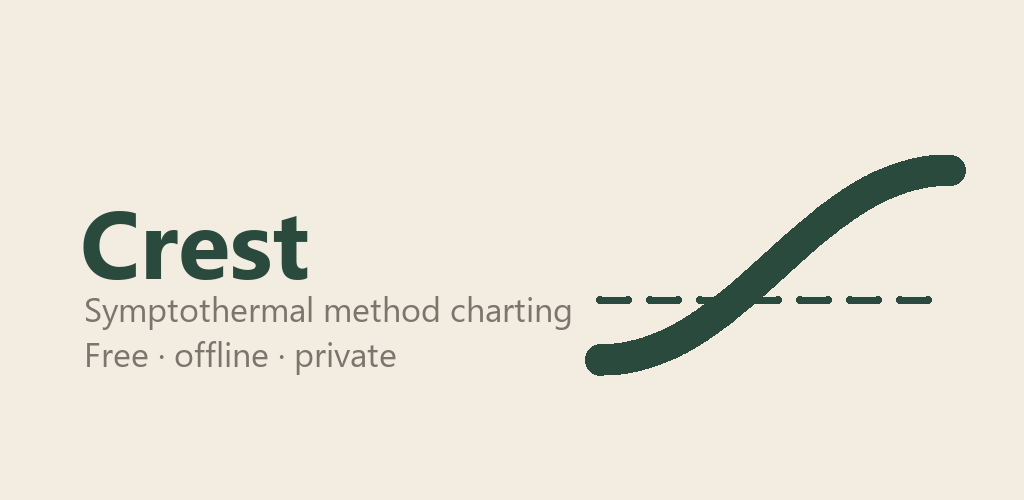
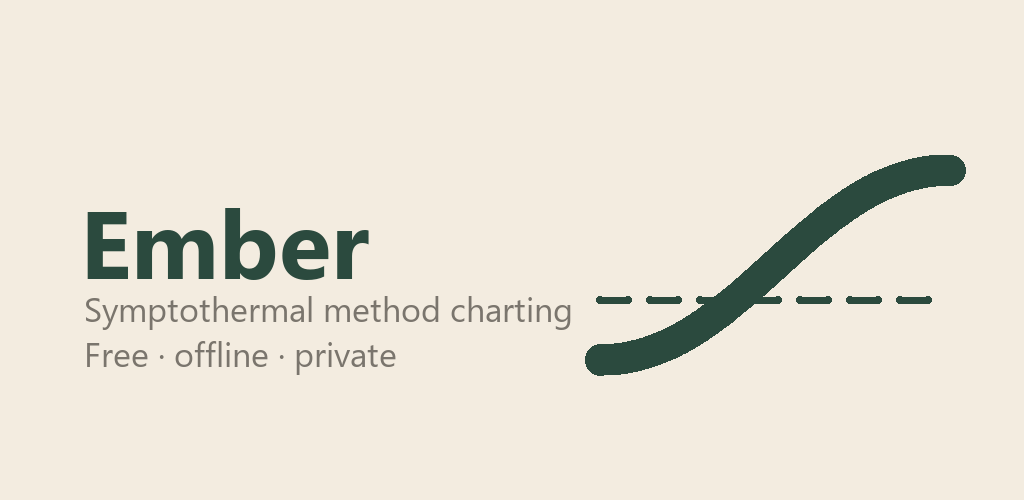
Rename app from Crest to Ember
Full rebrand: display name, Dart package (crest -> ember), Android
applicationId/namespace and Kotlin package (app.crest.tracker ->
app.ember.tracker), iOS bundle id and display name, local database
filename, web manifest, docs, privacy policy, Play listing, and the
generated feature graphic. The abstract curve icon is name-agnostic and
unchanged. GitHub repo URLs are left pointing at /crest (GitHub redirects
if the repo is renamed later).

"Crest" collided with a major consumer brand (toothpaste), undermining
discoverability and recall; "Ember" is collision-free in the cycle/
fertility app niche and ties to warmth -> basal body temperature.

Changed region(s): [[0.0625, 0.42, 0.375, 0.57], [0.0625, 0.54, 0.0938, 0.57]]

diff --git a/lib/main.dart b/lib/main.dart
@@ -11,18 +11,18 @@ void main() async {
   WidgetsFlutterBinding.ensureInitialized();
   await initDatabase();
   await NotificationService.instance.initialize();
-  runApp(const CrestApp());
+  runApp(const EmberApp());
 }
 
-class CrestApp extends StatelessWidget {
-  const CrestApp({super.key});
+class EmberApp extends StatelessWidget {
+  const EmberApp({super.key});
 
   @override
   Widget build(BuildContext context) {
     return ChangeNotifierProvider(
       create: (_) => CycleProvider()..initialize(),
       child: MaterialApp(
-        title: 'Crest',
+        title: 'Ember',
         theme: AppTheme.lightTheme,
         home: const HomeScreen(),
         debugShowCheckedModeBanner: false,

diff --git a/lib/screens/support_screen.dart b/lib/screens/support_screen.dart
@@ -25,7 +25,7 @@ class SupportScreen extends StatelessWidget {
     final colors = theme.colorScheme;
 
     return Scaffold(
-      appBar: AppBar(title: const Text('Support Crest')),
+      appBar: AppBar(title: const Text('Support Ember')),
       body: ListView(
         padding: const EdgeInsets.all(24),
         children: [
@@ -43,7 +43,7 @@ class SupportScreen extends StatelessWidget {
           ),
           const SizedBox(height: 24),
           Text(
-            'Crest is free — and stays that way',
+            'Ember is free — and stays that way',
             textAlign: TextAlign.center,
             style: theme.textTheme.titleMedium
                 ?.copyWith(fontWeight: FontWeight.w600),
@@ -52,7 +52,7 @@ class SupportScreen extends StatelessWidget {
           Text(
             'No subscriptions, no ads, no tracking. Every feature is available '
             'to everyone. It’s built and maintained in my spare time.\n\n'
-            'If Crest is useful to you and you’d like to chip in toward its '
+            'If Ember is useful to you and you’d like to chip in toward its '
             'development, you can leave a small tip. It’s entirely optional '
             'and unlocks nothing — you already have the whole app.',
             style: theme.textTheme.bodyMedium?.copyWith(
@@ -71,7 +71,7 @@ class SupportScreen extends StatelessWidget {
           ),
           const SizedBox(height: 12),
           Text(
-            'Opens in your browser. Crest never sees your payment details.',
+            'Opens in your browser. Ember never sees your payment details.',
             textAlign: TextAlign.center,
             style: theme.textTheme.bodySmall
                 ?.copyWith(color: colors.onSurfaceVariant),

diff --git a/lib/screens/settings_screen.dart b/lib/screens/settings_screen.dart
@@ -41,7 +41,7 @@ class SettingsScreen extends StatelessWidget {
                         color: colors.onPrimaryContainer, size: 24),
                   ),
                   const SizedBox(height: 8),
-                  Text('Crest',
+                  Text('Ember',
                       style: theme.textTheme.titleMedium?.copyWith(
                         fontWeight: FontWeight.w600,
                       )),
@@ -251,7 +251,7 @@ class SettingsScreen extends StatelessWidget {
                     color: colors.primary),
                 title: const Text('Import data (CSV)'),
                 subtitle:
-                    const Text('Import Crest CSV format'),
+                    const Text('Import Ember CSV format'),
                 onTap: () => _importData(context),
               ),
               const Divider(),
@@ -304,7 +304,7 @@ class SettingsScreen extends StatelessWidget {
                       color: colors.primary),
                   title: const Text('Support development'),
                   subtitle: const Text(
-                      'Crest is free. Chip in a coffee if you like — optional.'),
+                      'Ember is free. Chip in a coffee if you like — optional.'),
                   trailing: const Icon(Icons.chevron_right),
                   onTap: () => Navigator.of(context).push(
                     MaterialPageRoute(

diff --git a/test/stm_engine_test.dart b/test/stm_engine_test.dart
@@ -1,8 +1,8 @@
 import 'dart:math';
 import 'package:flutter_test/flutter_test.dart';
-import 'package:crest/models/cycle.dart';
-import 'package:crest/models/day_entry.dart';
-import 'package:crest/services/stm_engine.dart';
+import 'package:ember/models/cycle.dart';
+import 'package:ember/models/day_entry.dart';
+import 'package:ember/services/stm_engine.dart';
 
 // ---------------------------------------------------------------------------
 // Backtest suite for the STM evaluation engine.

diff --git a/lib/database/database_helper.dart b/lib/database/database_helper.dart
@@ -20,10 +20,10 @@ class DatabaseHelper {
   Future<Database> _initDatabase() async {
     String path;
     if (kIsWeb) {
-      path = 'crest.db';
+      path = 'ember.db';
     } else {
       final dbPath = await getDatabasesPath();
-      path = join(dbPath, 'crest.db');
+      path = join(dbPath, 'ember.db');
     }
     return await openDatabase(
       path,

diff --git a/test/cycle_stats_test.dart b/test/cycle_stats_test.dart
@@ -1,6 +1,6 @@
 import 'package:flutter_test/flutter_test.dart';
-import 'package:crest/models/cycle.dart';
-import 'package:crest/services/cycle_stats.dart';
+import 'package:ember/models/cycle.dart';
+import 'package:ember/services/cycle_stats.dart';
 
 // Verifies every statistic shown on the Statistics screen. The math is pure,
 // so these run without a database. Reference values are hand-computed.

diff --git a/test/widget_test.dart b/test/widget_test.dart
@@ -2,7 +2,7 @@ import 'package:flutter/material.dart';
 import 'package:flutter_test/flutter_test.dart';
 import 'package:shared_preferences/shared_preferences.dart';
 import 'package:sqflite_common_ffi/sqflite_ffi.dart';
-import 'package:crest/main.dart';
+import 'package:ember/main.dart';
 
 // End-to-end smoke test: boots the full app with mocked platform plugins
 // (SharedPreferences + an in-memory SQLite database) and verifies the main
@@ -19,7 +19,7 @@ void main() {
   });
 
   testWidgets('App boots and shows the main navigation', (tester) async {
-    await tester.pumpWidget(const CrestApp());
+    await tester.pumpWidget(const EmberApp());
     await tester.pumpAndSettle();
 
     // The default tab is "Today"; the bottom navigation should be present.

diff --git a/web/index.html b/web/index.html
@@ -23,13 +23,13 @@
   <!-- iOS meta tags & icons -->
   <meta name="mobile-web-app-capable" content="yes">
   <meta name="apple-mobile-web-app-status-bar-style" content="black">
-  <meta name="apple-mobile-web-app-title" content="Crest">
+  <meta name="apple-mobile-web-app-title" content="Ember">
   <link rel="apple-touch-icon" href="icons/Icon-192.png">
 
   <!-- Favicon -->
   <link rel="icon" type="image/png" href="favicon.png"/>
 
-  <title>Crest</title>
+  <title>Ember</title>
   <link rel="manifest" href="manifest.json">
 </head>
 <body>

diff --git a/lib/config/support_links.dart b/lib/config/support_links.dart
@@ -10,7 +10,7 @@ class SupportLinks {
 
   /// Ko-fi "buy me a coffee" page.
   ///
-  /// TODO(crest): replace YOUR_HANDLE with the real Ko-fi handle before
+  /// TODO(ember): replace YOUR_HANDLE with the real Ko-fi handle before
   /// publishing. If you have not created a Ko-fi page yet, sign up at
   /// https://ko-fi.com and put your page name here.
   static const String kofi = 'https://ko-fi.com/YOUR_HANDLE';

diff --git a/assets/play/generate_play_assets.py b/assets/play/generate_play_assets.py
@@ -1,4 +1,4 @@
-"""Generate Google Play Store graphics for Crest (Forest palette).
+"""Generate Google Play Store graphics for Ember (Forest palette).
 
 Outputs into assets/play/:
   - play_icon_512.png   : 512x512 hi-res store icon (full square; Play masks it)
@@ -86,7 +86,7 @@ def make_feature_graphic():
     # Wordmark + tagline on the left
     title_font = load_font(96, bold=True)
     tag_font = load_font(34, bold=False)
-    draw.text((80, 175), "Crest", font=title_font, fill=FG)
+    draw.text((80, 175), "Ember", font=title_font, fill=FG)
     draw.text((84, 285), "Symptothermal method charting",
               font=tag_font, fill=MUTED)
     draw.text((84, 330), "Free · offline · private",

diff --git a/assets/icon/generate.py b/assets/icon/generate.py
@@ -1,4 +1,4 @@
-"""Generate Crest launcher icons from scratch using Pillow.
+"""Generate Ember launcher icons from scratch using Pillow.
 
 Produces:
   - icon.png            : 1024x1024 full icon (rounded square background + curve)

diff --git a/PRIVACY.md b/PRIVACY.md
@@ -1,21 +1,21 @@
-# Privacy Policy — Crest
+# Privacy Policy — Ember
 
 _Last updated: 2026-04-23_
 
-Crest is a charting app for the symptothermal method. It is built around a
+Ember is a charting app for the symptothermal method. It is built around a
 simple principle: your data is yours and stays on your device. This policy
 explains exactly what that means.
 
 ## Short version
 
-- Crest stores everything **locally on your device**. There is no account and
+- Ember stores everything **locally on your device**. There is no account and
   no cloud.
-- Crest **collects no personal data** and sends nothing to us or to any third
+- Ember **collects no personal data** and sends nothing to us or to any third
   party.
-- Crest makes **no network connections** to operate. It works fully offline.
+- Ember makes **no network connections** to operate. It works fully offline.
 - There are **no ads, no analytics, no trackers, and no advertising IDs**.
 
-## What data Crest stores
+## What data Ember stores
 
 Everything you enter is stored only in a local database on your device:
 
@@ -29,7 +29,7 @@ Everything you enter is stored only in a local database on your device:
 
 This data never leaves your device unless **you** choose to export it.
 
-## What Crest does NOT do
+## What Ember does NOT do
 
 - It does not create an account or ask you to sign in.
 - It does not upload, sync, or back up your data to any server.
@@ -45,7 +45,7 @@ sent anywhere, and the notification contains only a generic prompt to chart.
 
 ## Data you export yourself
 
-If you use the CSV export feature, Crest creates a file containing your data and
+If you use the CSV export feature, Ember creates a file containing your data and
 hands it to the Android share sheet so you can save or send it wherever you
 choose. What happens to that file afterwards is under your control and governed
 by whichever app or service you send it to.
@@ -53,9 +53,9 @@ by whichever app or service you send it to.
 ## The optional "support development" link
 
 The app contains an optional link to a third-party donation page (Ko-fi). If you
-tap it, it opens in your browser. Crest does not transmit any of your data to
+tap it, it opens in your browser. Ember does not transmit any of your data to
 that page, and donating is entirely optional and unlocks nothing in the app. The
-donation provider has its own privacy policy, which applies once you leave Crest.
+donation provider has its own privacy policy, which applies once you leave Ember.
 
 ## Deleting your data
 
@@ -65,12 +65,12 @@ removes its local database from your device.
 
 ## Children
 
-Crest is not directed at children and is intended for adults tracking their own
+Ember is not directed at children and is intended for adults tracking their own
 fertility signs.
 
 ## Medical disclaimer
 
-Crest is a charting tool, not a medical device, and does not provide medical
+Ember is a charting tool, not a medical device, and does not provide medical
 advice. See the in-app and README disclaimers for details.
 
 ## Changes to this policy